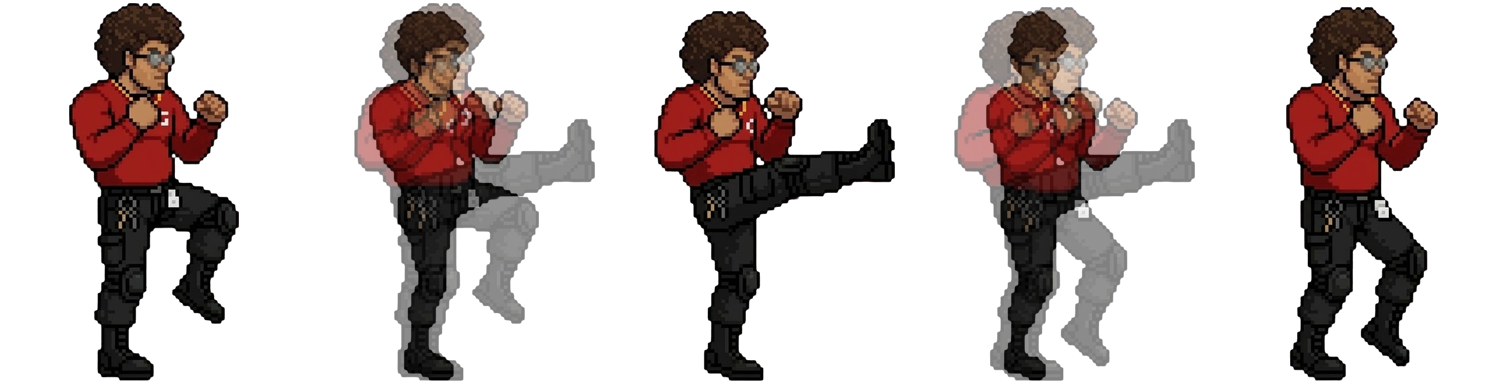
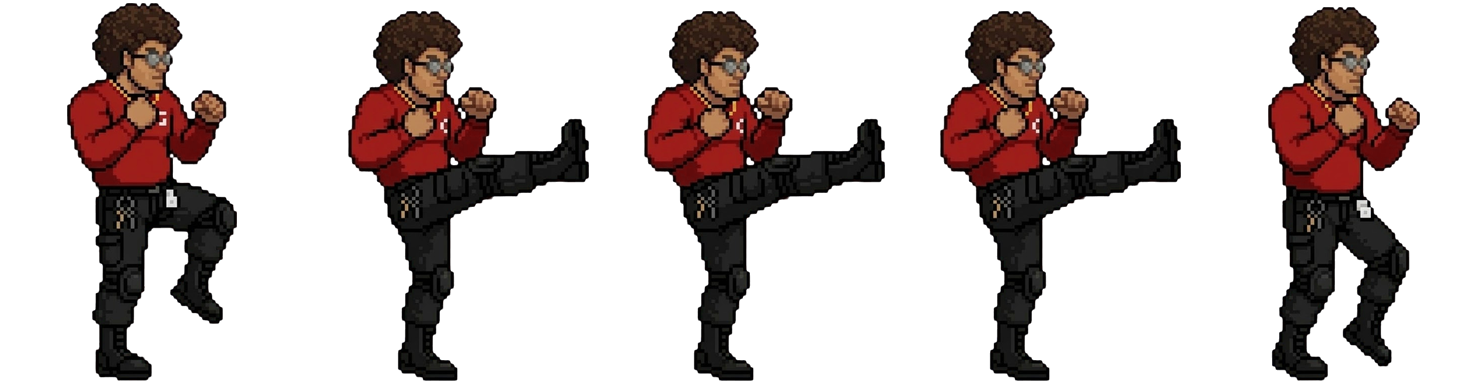
Matteo: animazioni nitide e più reattive, v=19
- rimossi i frame interpolati (pose sovrapposte in trasparenza che davano l'effetto mosso)
- idle su una sola posa con leggero respiro in gioco (prima alternava due pose diverse e sembrava tremare)
- camminata a 2 pose nitide
- pugno e calcio: posa di colpo visibile dal 2o frame; pesante con recupero in guardia

Claude-Session: https://claude.ai/code/session_01P1JT64VZ5V9vmBLWg7Znu1

diff --git a/index.html b/index.html
@@ -156,9 +156,9 @@ function R(x,y,w,h,col){c.fillStyle='#07070c';c.fillRect(x-1,y-1,w+2,h+2);c.fill
 /* sprite dei personaggi: 1 riga per animazione in assets/characters/<nome>/, corpo in piedi normalizzato a 400px, piedi sul bordo inferiore, rivolti a destra.
    n = frame per animazione; pj = proiettile dello speciale (pjn frame); spT = soglie (tick) dei frame dello speciale se diverse dallo standard.
    hit/win sono opzionali: se mancano si usa la posa idle (inclinata quando colpito). */
-const SPRB=400,VER=18,SPRSET={
+const SPRB=400,VER=19,SPRSET={
 BEPPE:{d:'beppe',n:{idle:4,walk:4,punch:5,kick:5,heavy:5,jump:3,block:1,crouch:1,special:5,fall:3,ko:1},pj:'pallet',pjn:1},
-MATTEO:{d:'matteo',n:{idle:4,walk:4,punch:5,kick:5,heavy:5,jump:3,block:1,crouch:1,special:3,hit:1,fall:3,ko:1,win:3},pj:'matteo-cart',pjn:3,spT:[5,11]}};
+MATTEO:{d:'matteo',n:{idle:1,walk:2,punch:5,kick:5,heavy:5,jump:3,block:1,crouch:1,special:3,hit:1,fall:3,ko:1,win:3},pj:'matteo-cart',pjn:3,spT:[5,11]}};
 for(const ss of Object.values(SPRSET)){ss.im={};for(const a of Object.keys(ss.n)){const im=new Image();im.onload=()=>{ss.im[a]=im};im.src='assets/characters/'+ss.d+'/'+ss.d+'-'+a+'.png?v='+VER}
 ss.pi=new Image();ss.pi.src='assets/characters/'+ss.d+'/'+ss.pj+'.png?v='+VER}
 const BGI=new Image();BGI.src='assets/backgrounds/arena-supermercato.png?v='+VER;
@@ -185,6 +185,7 @@ if(!SPR[name])name='idle';
 const src=SPR[name],fw=src.width/SPRN[name],fh=src.height,k=SPRK;
 c.save();c.imageSmoothingEnabled=false;c.translate(x|0,y|0);c.scale(f.face*sc,sc);
 if(s=='hit'&&name!='hit')c.rotate(-.08);
+if(name=='idle'&&SPRN.idle==1)c.scale(1,1+Math.sin(t/14)*.012);
 if(s=='atk'&&f.atk=='s'){c.fillStyle='rgba(255,210,63,.3)';c.fillRect(-34,-fh*k-6,68,fh*k+6)}
 c.drawImage(src,fi*fw,0,fw,fh,-fw*k/2,-fh*k,fw*k,fh*k);c.restore();return}
 c.save();c.translate(x|0,y|0);c.scale(f.face*sc,sc);

diff --git a/tools/build_matteo_sprites.py b/tools/build_matteo_sprites.py
@@ -68,17 +68,18 @@ def sheet(name, frames, top=3, bot=2):
     Image.fromarray(np.clip(out, 0, 255).astype(np.uint8), 'RGBA').save(DST + 'matteo-%s.png' % name, optimize=True)
     print(name, len(frames), 'x', (cw, H))
 
-B = blend
-idle0, idle1, walk2 = fig(5408, 0), fig(5408, 1), fig(5408, 2)
-sheet('idle', [idle0, B(idle0, idle1), idle1, B(idle1, idle0)])
-sheet('walk', [idle0, B(idle0, walk2), walk2, B(walk2, idle0)])
+# niente frame interpolati (sovrapposizioni in trasparenza = effetto "mosso"):
+# solo pose nitide; negli attacchi la posa di colpo compare gia' dal 2o frame per una risposta immediata
+idle0, walk2 = fig(5408, 0), fig(5408, 2)
+sheet('idle', [idle0])                                        # respiro fatto in gioco (leggero bob)
+sheet('walk', [idle0, walk2])
 p = [fig(5409, i) for i in range(3)]
-sheet('punch', [p[0], B(p[0], p[1]), p[1], B(p[1], p[2]), p[2]])
+sheet('punch', [p[0], p[1], p[1], p[1], p[2]])
 k = [fig(5410, i) for i in range(3)]
-sheet('kick', [k[0], B(k[0], k[1]), k[1], B(k[1], k[2]), k[2]])
+sheet('kick', [k[0], k[1], k[1], k[1], k[2]])
 h = [fig(5411, i) for i in range(3)]
-sheet('heavy', [h[0], h[1], h[2], h[2], B(h[2], idle0)])
-sheet('special', [fig(5412, i, K_SPECIAL) for i in range(3)])          # spinge carrello, lo solleva, lancia
+sheet('heavy', [h[0], h[1], h[2], h[2], idle0])
+sheet('special', [fig(5412, i, K_SPECIAL) for i in range(3)])  # spinge carrello, lo solleva, lancia
 j = [fig(5414, i, K_JUMP) for i in range(4)]
 # la posa di stacco (j[1]) ha il braccio tagliato nella tavola: stacco/atterraggio in guardia, raccolto all'apice
 sheet('jump', [j[3], j[2], j[3]])
